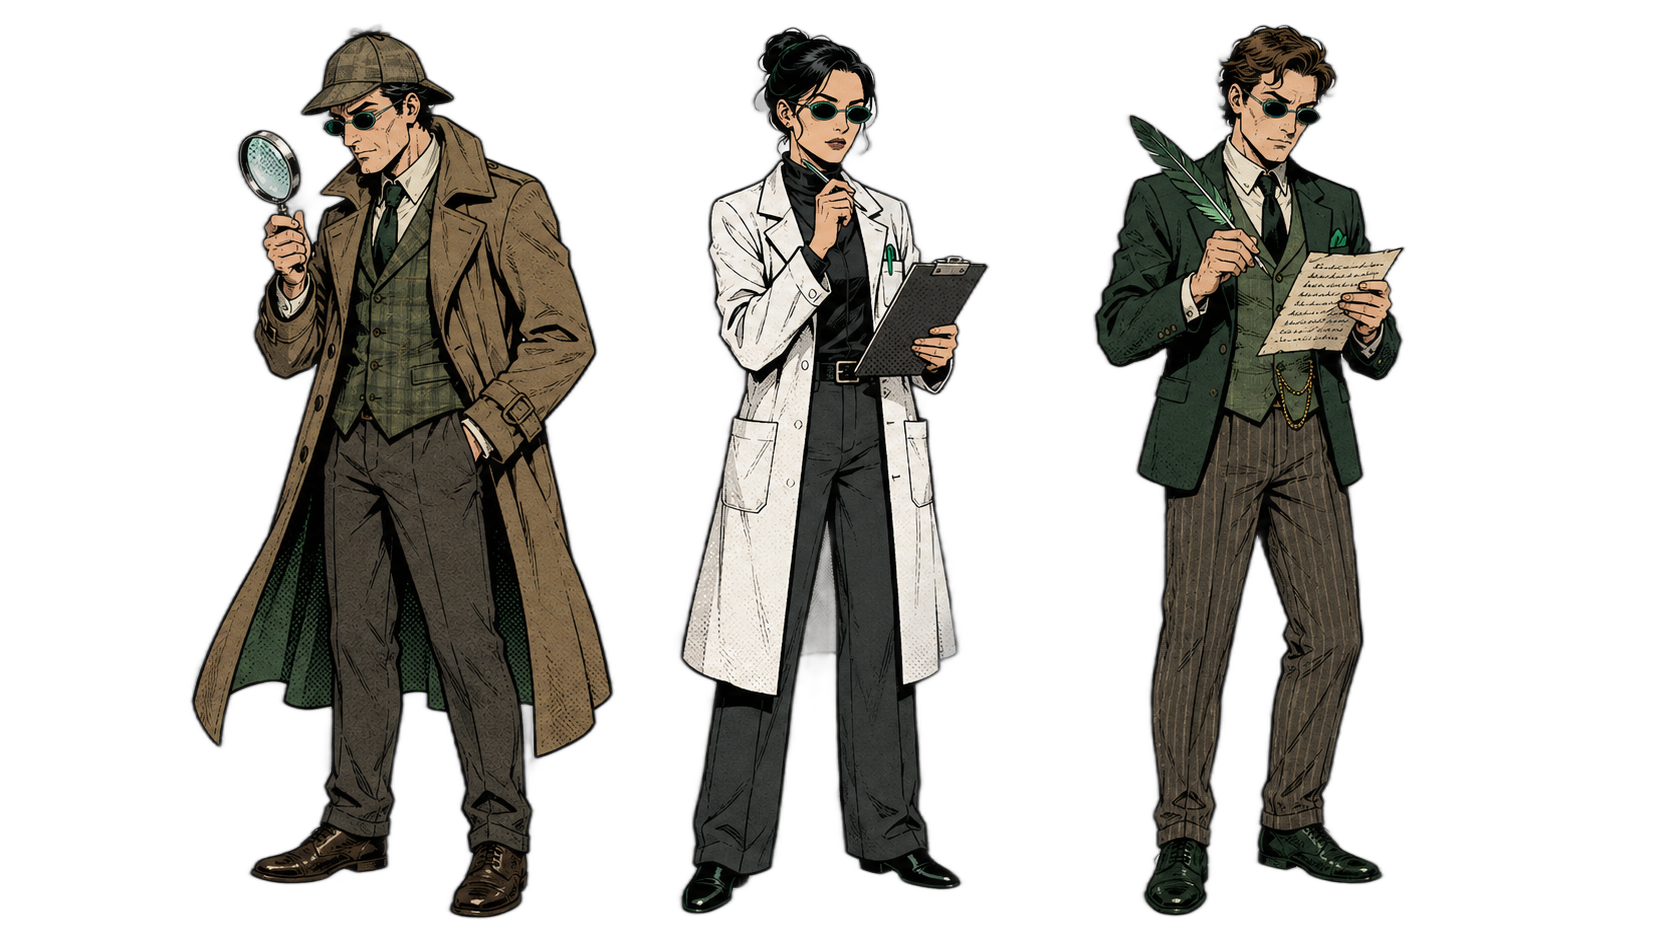
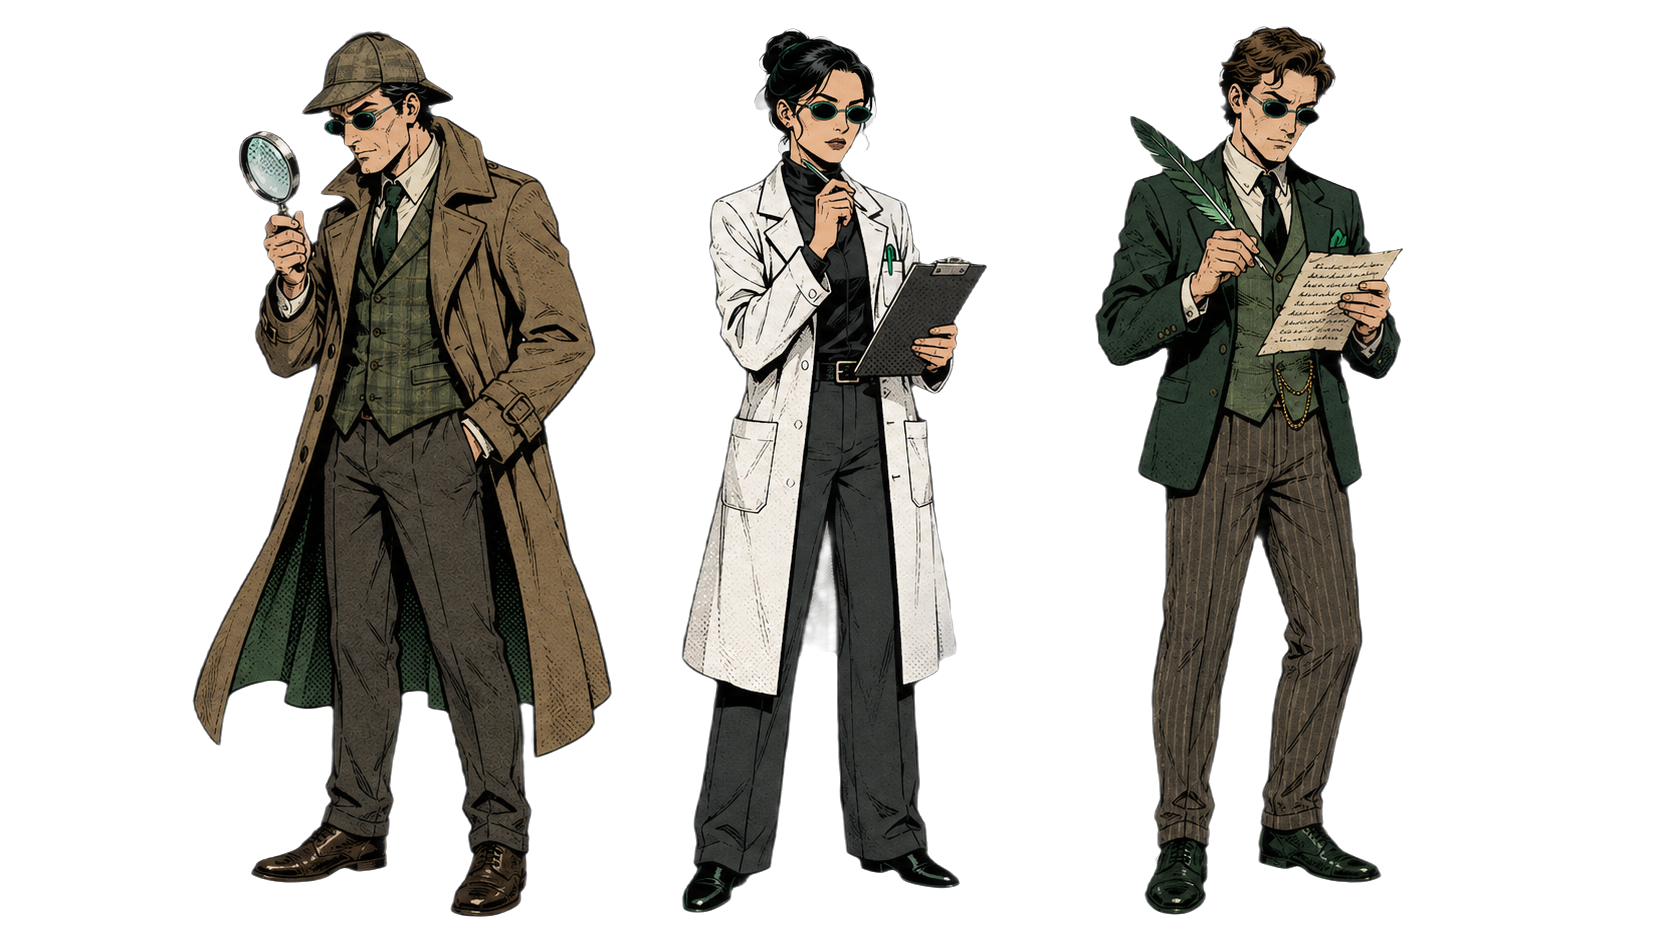
chore(web): rifinitura ritaglio Team + note prompt immagini
- landing-team.png: post-process alpha (soglia + erode) per ridurre i residui
  di matte. Restano dei puntini bianchi attorno alla crocchia/gambe: annotato
  come TODO (piano: modello birefnet-general o ritocco manuale).
- landing-image-prompts.md: nota TODO sul Team + nuovo concept per
  landing.setup (Mac + cono di luce blu Tesseract + cubo col team dentro,
  sfondo trasparente).

diff --git a/docs/internal/landing-image-prompts.md b/docs/internal/landing-image-prompts.md
@@ -40,8 +40,16 @@ File attuale: `web/public/landing-hero.png`. Prompt finale usato:
 
 ## Landing — thumbnail di sezione (16:9)
 
-### `landing.team` ✅ FATTO
-File: `web/public/landing-team.png` (sfondo trasparente). Prompt usato:
+### `landing.team` ✅ FATTO · ⚠ DA RIFINIRE
+File: `web/public/landing-team.png` (sfondo trasparente, ritaglio `rembg -m
+isnet-anime`).
+> ⚠ **TODO**: restano dei **puntini bianchi** (residui di matte) attorno alla
+> crocchia dell'Analista e nel gap tra le gambe. Tentati: u2net → camice sporco;
+> isnet-anime → meglio ma residui; post-process alpha (soglia 28% + erode 1px) →
+> NON risolto. Prossimo tentativo: modello **`birefnet-general`** (matte di
+> qualità superiore) oppure ritocco manuale puntuale.
+
+Prompt usato:
 > [STYLE] Three Job Hunter Team agents standing, full body, side by side, **on a
 > plain transparent background — no scene, no setting**, just the figures. Left to
 > right: a **Scout** (sleuth in a trench coat and detective hat, with a magnifying
@@ -59,11 +67,19 @@ riserva per generarla invece:
 > and donut charts, a list of cards — all abstract, NO readable text. Calm,
 > modern, premium. The person wears the identical Matrix sunglasses. 16:9.
 
-### `landing.setup`
-> [STYLE] A tidy triptych vibe in one frame: a laptop on a desk, a small
-> always-on mini-PC, and a server/cloud icon — connected by subtle green lines,
-> suggesting three ways to run the team. Clean, technical-but-warm, no readable
-> text. 16:9.
+### `landing.setup` — Mac + cono di luce + cubo col team (sfondo trasparente)
+> Comic-book / graphic-novel illustration, hand-drawn inked outlines, flat cel
+> shading, muted palette; not 3D, not photorealistic. A modern Mac (laptop) seen
+> at a three-quarter angle. From its screen a soft glowing BLUE cone of light
+> (Tesseract blue, soft — NOT Marvel-bright) projects outward: the sharp tip
+> touches the screen and the cone widens as it goes out. At the wide end floats a
+> glass sci-fi cube (Tesseract-style, soft blue glowing edges) containing a tiny
+> office/loft with the team of agents at work inside, seen from outside like a
+> miniature world. Subtle green accents. **Isolated on a plain transparent
+> background — no scene, no setting.** Transparent PNG. 16:9.
+>
+> Riferimento stile cubo: `web/public/chronicles/the-box.png` (Tesseract della
+> pagina Cronache).
 
 ### `landing.pricing`
 > [STYLE] An open, airy composition: an open-source padlock/key motif and a few
